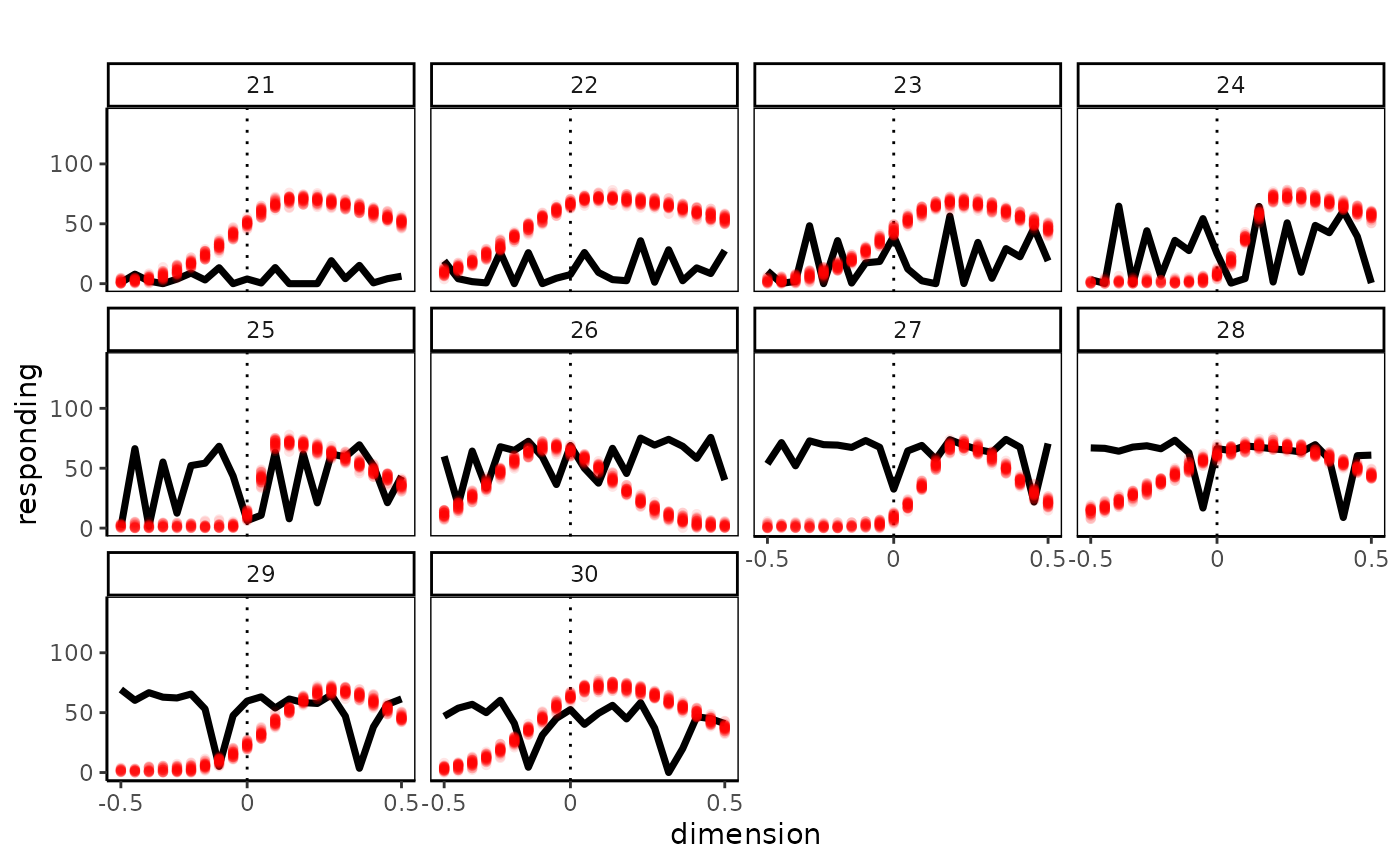
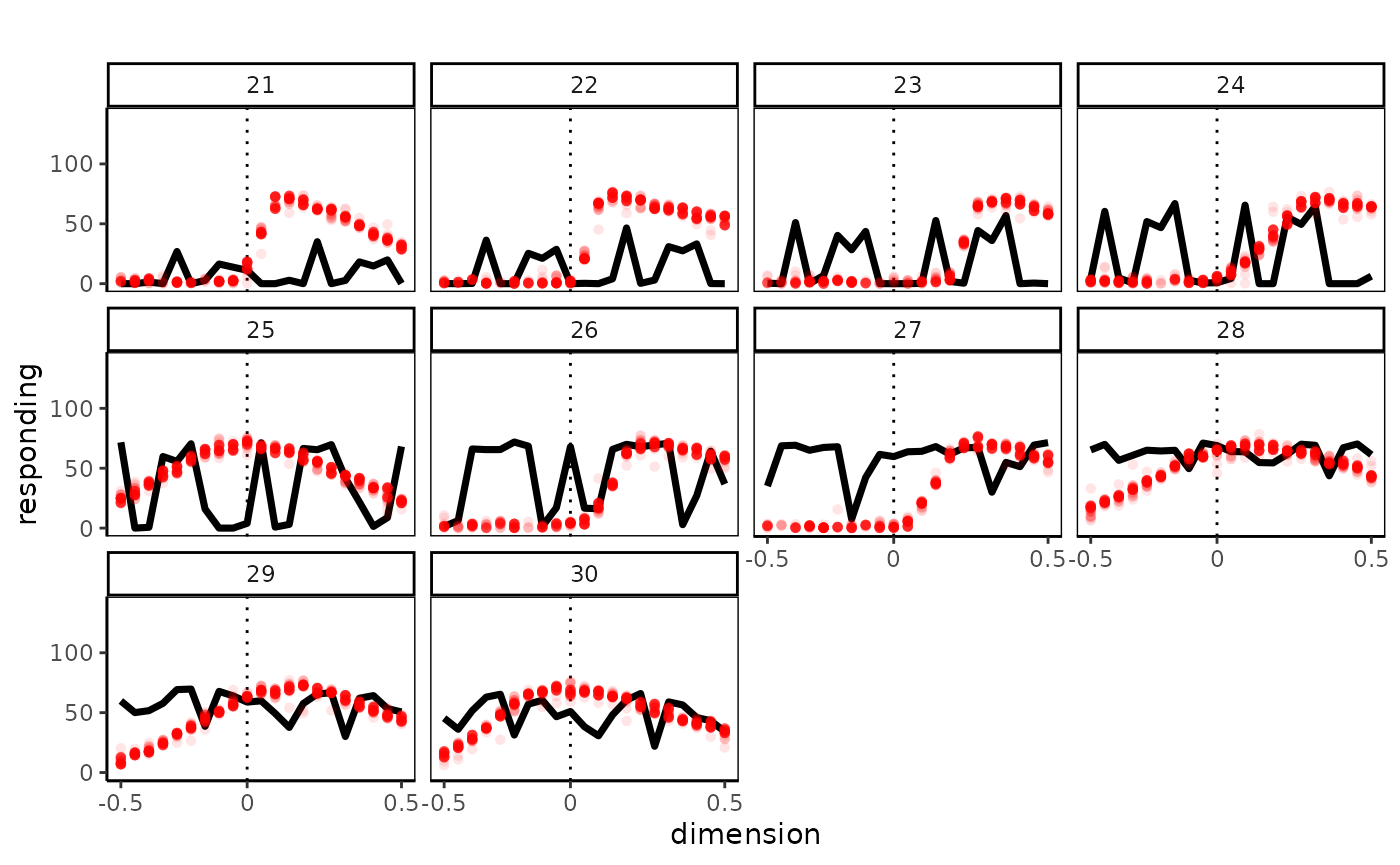
Deploying to gh-pages from @ fontikar/augGauss@7ff78bc59039eabdb589e5656387280915393bc2 🚀

Changed region(s): [[0.0614, 0.4994, 0.9829, 0.6243], [0.0614, 0.2185, 0.9829, 0.3434], [0.0614, 0.7803, 0.5221, 0.9052]]

diff --git a/articles/augGauss.html b/articles/augGauss.html
@@ -111,14 +111,14 @@ of <code>augGauss</code>
 <span></span>
 <span><span class="va">sim_data</span>  <span class="op">|&gt;</span> <span class="fu"><a href="https://rdrr.io/r/base/print.html" class="external-link">print</a></span><span class="op">(</span>n <span class="op">=</span> <span class="fl">6</span><span class="op">)</span></span>
 <span><span class="co">#&gt; <span style="color: #949494;"># A tibble: 630 × 4</span></span></span>
-<span><span class="co">#&gt;    subj group      x     y</span></span>
-<span><span class="co">#&gt;   <span style="color: #949494; font-style: italic;">&lt;dbl&gt;</span> <span style="color: #949494; font-style: italic;">&lt;chr&gt;</span>  <span style="color: #949494; font-style: italic;">&lt;dbl&gt;</span> <span style="color: #949494; font-style: italic;">&lt;dbl&gt;</span></span></span>
-<span><span class="co">#&gt; <span style="color: #BCBCBC;">1</span>     1 group1 -<span style="color: #BB0000;">0.5</span>   4.90</span></span>
-<span><span class="co">#&gt; <span style="color: #BCBCBC;">2</span>     1 group1 -<span style="color: #BB0000;">0.45</span>  8.17</span></span>
-<span><span class="co">#&gt; <span style="color: #BCBCBC;">3</span>     1 group1 -<span style="color: #BB0000;">0.4</span>  11.7 </span></span>
-<span><span class="co">#&gt; <span style="color: #BCBCBC;">4</span>     1 group1 -<span style="color: #BB0000;">0.35</span> 18.2 </span></span>
-<span><span class="co">#&gt; <span style="color: #BCBCBC;">5</span>     1 group1 -<span style="color: #BB0000;">0.3</span>  21.6 </span></span>
-<span><span class="co">#&gt; <span style="color: #BCBCBC;">6</span>     1 group1 -<span style="color: #BB0000;">0.25</span> 24.5 </span></span>
+<span><span class="co">#&gt;    subj group      x      y</span></span>
+<span><span class="co">#&gt;   <span style="color: #949494; font-style: italic;">&lt;dbl&gt;</span> <span style="color: #949494; font-style: italic;">&lt;chr&gt;</span>  <span style="color: #949494; font-style: italic;">&lt;dbl&gt;</span>  <span style="color: #949494; font-style: italic;">&lt;dbl&gt;</span></span></span>
+<span><span class="co">#&gt; <span style="color: #BCBCBC;">1</span>     1 group1 -<span style="color: #BB0000;">0.5</span>  0     </span></span>
+<span><span class="co">#&gt; <span style="color: #BCBCBC;">2</span>     1 group1 -<span style="color: #BB0000;">0.45</span> 0.098<span style="text-decoration: underline;">8</span></span></span>
+<span><span class="co">#&gt; <span style="color: #BCBCBC;">3</span>     1 group1 -<span style="color: #BB0000;">0.4</span>  2.71  </span></span>
+<span><span class="co">#&gt; <span style="color: #BCBCBC;">4</span>     1 group1 -<span style="color: #BB0000;">0.35</span> 2.40  </span></span>
+<span><span class="co">#&gt; <span style="color: #BCBCBC;">5</span>     1 group1 -<span style="color: #BB0000;">0.3</span>  1.80  </span></span>
+<span><span class="co">#&gt; <span style="color: #BCBCBC;">6</span>     1 group1 -<span style="color: #BB0000;">0.25</span> 4.59  </span></span>
 <span><span class="co">#&gt; <span style="color: #949494;"># ℹ 624 more rows</span></span></span></code></pre></div>
 <p>You can save the simulated data by setting the <code>save_data</code>
 argument to <code>TRUE</code></p>
@@ -143,35 +143,35 @@ argument to <code>TRUE</code></p>
 <div class="sourceCode" id="cb7"><pre class="downlit sourceCode r">
 <code class="sourceCode R"><span><span class="fu"><a href="../reference/Get_HDIs.html">Get_HDIs</a></span><span class="op">(</span><span class="va">combined</span><span class="op">)</span> </span>
 <span><span class="co">#&gt; $group1</span></span>
-<span><span class="co">#&gt;           param hdi_lim     hdi_low   hdi_high rope_low rope_high prop_rope</span></span>
-<span><span class="co">#&gt; 1       M_group    0.95 -0.02939863  0.2120115    -0.05      0.05      0.40</span></span>
-<span><span class="co">#&gt; 2  SDPlus_group    0.95  0.14844642  0.4299640     0.10      0.20      0.21</span></span>
-<span><span class="co">#&gt; 3 SDMinus_group    0.95  0.15448574  0.2889490     0.10      0.20      0.23</span></span>
-<span><span class="co">#&gt; 4  height_group    0.95 50.99432431 81.1201885    70.00     80.00      0.31</span></span>
+<span><span class="co">#&gt;           param hdi_lim     hdi_low    hdi_high rope_low rope_high prop_rope</span></span>
+<span><span class="co">#&gt; 1       M_group    0.95 -0.04237548  0.08628929    -0.05      0.05      0.66</span></span>
+<span><span class="co">#&gt; 2  SDPlus_group    0.95  0.27542966  0.44980423     0.10      0.20      0.00</span></span>
+<span><span class="co">#&gt; 3 SDMinus_group    0.95  0.11072881  0.24954903     0.10      0.20      0.75</span></span>
+<span><span class="co">#&gt; 4  height_group    0.95 59.88644756 79.57696119    70.00     80.00      0.51</span></span>
 <span><span class="co">#&gt;   p_dir</span></span>
-<span><span class="co">#&gt; 1  0.89</span></span>
+<span><span class="co">#&gt; 1  0.82</span></span>
 <span><span class="co">#&gt; 2  1.00</span></span>
 <span><span class="co">#&gt; 3  1.00</span></span>
 <span><span class="co">#&gt; 4  1.00</span></span>
 <span><span class="co">#&gt; </span></span>
 <span><span class="co">#&gt; $group2</span></span>
-<span><span class="co">#&gt;           param hdi_lim     hdi_low   hdi_high rope_low rope_high prop_rope</span></span>
-<span><span class="co">#&gt; 1       M_group    0.95 -0.03742665  0.3289277    -0.05      0.05      0.43</span></span>
-<span><span class="co">#&gt; 2  SDPlus_group    0.95  0.09966680  0.4860483     0.10      0.20      0.38</span></span>
-<span><span class="co">#&gt; 3 SDMinus_group    0.95  0.11189182  0.5306188     0.10      0.20      0.41</span></span>
-<span><span class="co">#&gt; 4  height_group    0.95 27.34201686 75.8644720    70.00     80.00      0.50</span></span>
+<span><span class="co">#&gt;           param hdi_lim     hdi_low    hdi_high rope_low rope_high prop_rope</span></span>
+<span><span class="co">#&gt; 1       M_group    0.95 -0.03048571  0.09657593    -0.05      0.05      0.65</span></span>
+<span><span class="co">#&gt; 2  SDPlus_group    0.95  0.24562223  0.38088443     0.10      0.20      0.00</span></span>
+<span><span class="co">#&gt; 3 SDMinus_group    0.95  0.14006861  0.26475670     0.10      0.20      0.38</span></span>
+<span><span class="co">#&gt; 4  height_group    0.95 66.59133504 74.77841845    70.00     80.00      0.77</span></span>
 <span><span class="co">#&gt;   p_dir</span></span>
-<span><span class="co">#&gt; 1  0.77</span></span>
-<span><span class="co">#&gt; 2  1.00</span></span>
-<span><span class="co">#&gt; 3  1.00</span></span>
-<span><span class="co">#&gt; 4  1.00</span></span>
+<span><span class="co">#&gt; 1   0.8</span></span>
+<span><span class="co">#&gt; 2   1.0</span></span>
+<span><span class="co">#&gt; 3   1.0</span></span>
+<span><span class="co">#&gt; 4   1.0</span></span>
 <span><span class="co">#&gt; </span></span>
 <span><span class="co">#&gt; $group3</span></span>
-<span><span class="co">#&gt;           param hdi_lim     hdi_low   hdi_high rope_low rope_high prop_rope</span></span>
-<span><span class="co">#&gt; 1       M_group    0.95  0.03386109  0.1376460    -0.05      0.05      0.08</span></span>
-<span><span class="co">#&gt; 2  SDPlus_group    0.95  0.32648971  0.4335942     0.10      0.20      0.00</span></span>
-<span><span class="co">#&gt; 3 SDMinus_group    0.95  0.12992057  0.2725881     0.10      0.20      0.33</span></span>
-<span><span class="co">#&gt; 4  height_group    0.95 69.21586280 71.5534267    70.00     80.00      0.81</span></span>
+<span><span class="co">#&gt;           param hdi_lim      hdi_low   hdi_high rope_low rope_high prop_rope</span></span>
+<span><span class="co">#&gt; 1       M_group    0.95  0.003335315  0.1498465    -0.05      0.05      0.30</span></span>
+<span><span class="co">#&gt; 2  SDPlus_group    0.95  0.388230051  0.5315191     0.10      0.20      0.00</span></span>
+<span><span class="co">#&gt; 3 SDMinus_group    0.95  0.154713502  0.2259645     0.10      0.20      0.86</span></span>
+<span><span class="co">#&gt; 4  height_group    0.95 68.033942033 71.0217226    70.00     80.00      0.37</span></span>
 <span><span class="co">#&gt;   p_dir</span></span>
 <span><span class="co">#&gt; 1     1</span></span>
 <span><span class="co">#&gt; 2     1</span></span>
@@ -180,119 +180,119 @@ argument to <code>TRUE</code></p>
 <span></span>
 <span><span class="fu"><a href="../reference/Get_HDIs_diff.html">Get_HDIs_diff</a></span><span class="op">(</span><span class="va">combined</span>, comparison <span class="op">=</span> <span class="fu"><a href="https://rdrr.io/r/base/c.html" class="external-link">c</a></span><span class="op">(</span><span class="st">"group1"</span>, <span class="st">"group3"</span><span class="op">)</span><span class="op">)</span> </span>
 <span><span class="co">#&gt; $group_sample_diffs</span></span>
-<span><span class="co">#&gt;           M_group  SDPlus_group SDMinus_group height_group</span></span>
-<span><span class="co">#&gt; 1    0.0176038756 -0.0955361878  0.0629807589   -17.233099</span></span>
-<span><span class="co">#&gt; 2    0.0277057844 -0.0669668364  0.0138890642   -20.764999</span></span>
-<span><span class="co">#&gt; 3    0.1372423983 -0.1671254662  0.0639247075   -18.218690</span></span>
-<span><span class="co">#&gt; 4    0.1423995646 -0.1569428863  0.0063963088   -19.558177</span></span>
-<span><span class="co">#&gt; 5    0.1746762647 -0.2167104828  0.0621194099   -15.228837</span></span>
-<span><span class="co">#&gt; 6   -0.0395637078 -0.0660373464  0.0110116058   -18.871506</span></span>
-<span><span class="co">#&gt; 7    0.0569950084 -0.2327678692  0.0181758956   -13.495008</span></span>
-<span><span class="co">#&gt; 8   -0.0113398214 -0.1863302532  0.0694737404   -17.107024</span></span>
-<span><span class="co">#&gt; 9    0.1042834667 -0.1224886563  0.0116548434   -18.755262</span></span>
-<span><span class="co">#&gt; 10   0.1082494436 -0.2082500978  0.0287459342   -18.364038</span></span>
-<span><span class="co">#&gt; 11   0.1216775412 -0.1360466514  0.1001550499   -16.202608</span></span>
-<span><span class="co">#&gt; 12   0.1409870313 -0.2111392874  0.0114773580   -18.987568</span></span>
-<span><span class="co">#&gt; 13   0.0853072641 -0.1438393140  0.0358604235   -18.678920</span></span>
-<span><span class="co">#&gt; 14   0.0818145837 -0.1224085439  0.0109901960   -17.533361</span></span>
-<span><span class="co">#&gt; 15   0.1503651461 -0.1764488559  0.0374925032   -19.163337</span></span>
-<span><span class="co">#&gt; 16  -0.0237342099 -0.1567590117 -0.0047702550   -16.570995</span></span>
-<span><span class="co">#&gt; 17  -0.0124285058 -0.1886732488  0.0318648575   -21.070726</span></span>
-<span><span class="co">#&gt; 18   0.0774442468 -0.1534473233 -0.0286293061   -16.625810</span></span>
-<span><span class="co">#&gt; 19   0.1156935501 -0.1825397400  0.0115457081   -17.258031</span></span>
-<span><span class="co">#&gt; 20   0.0763797002 -0.0337377202  0.0608996863   -17.633498</span></span>
-<span><span class="co">#&gt; 21   0.0251363972 -0.2503464890 -0.0274072310   -12.629426</span></span>
-<span><span class="co">#&gt; 22   0.0644944368 -0.1482481565  0.1354144650   -17.744411</span></span>
-<span><span class="co">#&gt; 23   0.0212271634 -0.2067241253 -0.0009409767   -14.688784</span></span>
-<span><span class="co">#&gt; 24   0.1196774503 -0.1942041544  0.1317954619   -16.877866</span></span>
-<span><span class="co">#&gt; 25   0.0456831756 -0.1007469568  0.0226072226   -18.521699</span></span>
-<span><span class="co">#&gt; 26   0.0882861770 -0.2058463045  0.0176865419   -15.511643</span></span>
-<span><span class="co">#&gt; 27   0.0943673520 -0.1713664324  0.0675360125   -17.252265</span></span>
-<span><span class="co">#&gt; 28   0.0424226676 -0.1408517847  0.0110798865   -14.293621</span></span>
-<span><span class="co">#&gt; 29   0.0666358153 -0.1483916764  0.0498516131   -18.949886</span></span>
-<span><span class="co">#&gt; 30   0.0728233121 -0.1112809666  0.0876561989   -18.175405</span></span>
-<span><span class="co">#&gt; 31   0.0003230613 -0.2696405411  0.0066262849   -17.580206</span></span>
-<span><span class="co">#&gt; 32   0.0648246163 -0.2292359466  0.0460867664   -17.945350</span></span>
-<span><span class="co">#&gt; 33   0.0237313805 -0.1160634439 -0.0031629855   -15.864281</span></span>
-<span><span class="co">#&gt; 34   0.0632226685 -0.1847736797  0.1041270807   -16.690886</span></span>
-<span><span class="co">#&gt; 35   0.1028098425 -0.1212272262  0.0481113903   -15.281056</span></span>
-<span><span class="co">#&gt; 36   0.1372369966 -0.1399402539  0.0831877552   -16.529718</span></span>
-<span><span class="co">#&gt; 37   0.1373059475 -0.1779574224  0.0526439338   -18.648490</span></span>
-<span><span class="co">#&gt; 38   0.0236253884 -0.1792494066  0.0438581916   -18.162933</span></span>
-<span><span class="co">#&gt; 39   0.0866144682 -0.2082934243  0.0744457184   -19.305545</span></span>
-<span><span class="co">#&gt; 40   0.0473755875 -0.0892140292 -0.0298521035   -17.206020</span></span>
-<span><span class="co">#&gt; 41   0.0417606800 -0.2209431513  0.0004840834   -16.621387</span></span>
-<span><span class="co">#&gt; 42   0.0753256503 -0.1690226831  0.0675728192   -16.325889</span></span>
-<span><span class="co">#&gt; 43   0.0528178374 -0.2251344790  0.0465082184   -16.459184</span></span>
-<span><span class="co">#&gt; 44   0.1011586622 -0.1899441935 -0.0049842250   -16.258146</span></span>
-<span><span class="co">#&gt; 45   0.1117544314 -0.2425301908  0.0592790904   -15.893463</span></span>
-<span><span class="co">#&gt; 46   0.0507660722 -0.0525255846  0.0770139132   -19.035724</span></span>
-<span><span class="co">#&gt; 47   0.0828485816 -0.1011246722  0.0715948881   -18.861523</span></span>
-<span><span class="co">#&gt; 48   0.1138301560 -0.2292207334 -0.0233819731   -19.801333</span></span>
-<span><span class="co">#&gt; 49   0.0853072505 -0.1717095732  0.1213033837   -15.536750</span></span>
-<span><span class="co">#&gt; 50   0.0203781962 -0.1989218293  0.0325435352   -16.714859</span></span>
-<span><span class="co">#&gt; 51  -0.0334639099 -0.0100820030  0.0212337674     9.766769</span></span>
-<span><span class="co">#&gt; 52  -0.0505729424  0.0032398448 -0.0337997991     9.679912</span></span>
-<span><span class="co">#&gt; 53  -0.0454146287  0.0126823594  0.0496227027     9.511465</span></span>
-<span><span class="co">#&gt; 54   0.0031617679  0.0619010811 -0.0287285339     8.972190</span></span>
-<span><span class="co">#&gt; 55  -0.1112323057  0.0385460461 -0.0402227078    10.053500</span></span>
-<span><span class="co">#&gt; 56  -0.0099341959  0.0178400585 -0.0161638732     8.248121</span></span>
-<span><span class="co">#&gt; 57  -0.0584496780  0.0768496023 -0.0131171564     8.580505</span></span>
-<span><span class="co">#&gt; 58  -0.0891798097 -0.0152589967 -0.0006125056     8.203953</span></span>
-<span><span class="co">#&gt; 59  -0.1486767506 -0.0007679793 -0.0204013216     8.942722</span></span>
-<span><span class="co">#&gt; 60  -0.0879974207  0.0553665969  0.0629996081     9.211398</span></span>
-<span><span class="co">#&gt; 61  -0.0725290894 -0.0533381141 -0.0409874695     8.418947</span></span>
-<span><span class="co">#&gt; 62  -0.1173774898  0.0629456665 -0.0886509898     9.937011</span></span>
-<span><span class="co">#&gt; 63  -0.0784630170 -0.0626578543  0.0119500797     9.546727</span></span>
-<span><span class="co">#&gt; 64  -0.0573542525  0.0017150593  0.0064402574     9.299257</span></span>
-<span><span class="co">#&gt; 65  -0.0832329872  0.0060185121  0.0367934098     8.774349</span></span>
-<span><span class="co">#&gt; 66  -0.0151753114  0.0518983891 -0.0243947030     7.500353</span></span>
-<span><span class="co">#&gt; 67  -0.0353377057  0.0179906210  0.0241938585     9.671290</span></span>
-<span><span class="co">#&gt; 68  -0.0513806250  0.0001231279 -0.0341599614     9.446216</span></span>
-<span><span class="co">#&gt; 69  -0.0288304536 -0.0250111892 -0.0229586908    10.913648</span></span>
-<span><span class="co">#&gt; 70  -0.0166054155  0.0035299153 -0.0106590480     7.932176</span></span>
-<span><span class="co">#&gt; 71  -0.0831277624  0.0008491300  0.0402419191     9.343476</span></span>
-<span><span class="co">#&gt; 72  -0.0289048898 -0.0428297163 -0.0176153630    10.629637</span></span>
-<span><span class="co">#&gt; 73  -0.0715576712  0.0119375305  0.0158116841    10.068574</span></span>
-<span><span class="co">#&gt; 74  -0.1471749344 -0.0173448809 -0.1250463742     9.037175</span></span>
-<span><span class="co">#&gt; 75  -0.1157324771  0.0258098481 -0.0376352054     9.013086</span></span>
-<span><span class="co">#&gt; 76  -0.0463172346 -0.0812396691  0.0376275985     7.981957</span></span>
-<span><span class="co">#&gt; 77  -0.0848780362  0.0080028134  0.0106336284     7.837132</span></span>
-<span><span class="co">#&gt; 78  -0.1102683981 -0.0291684030  0.0121338324     9.483019</span></span>
-<span><span class="co">#&gt; 79  -0.1219698361 -0.0218392770  0.0175650659     7.182861</span></span>
-<span><span class="co">#&gt; 80  -0.0293322194  0.0166171260 -0.0338131941    11.176518</span></span>
-<span><span class="co">#&gt; 81  -0.1187032126  0.0773591366  0.1043626563     9.149669</span></span>
-<span><span class="co">#&gt; 82  -0.1004462481  0.0132891536 -0.0615272061     8.865670</span></span>
-<span><span class="co">#&gt; 83  -0.0952065929  0.0020548713  0.0442491120     8.856546</span></span>
-<span><span class="co">#&gt; 84  -0.0810117121 -0.0514070852 -0.0332100101     9.421228</span></span>
-<span><span class="co">#&gt; 85   0.0060775394  0.0688966939  0.0799120080    10.217118</span></span>
-<span><span class="co">#&gt; 86  -0.0782138091 -0.0467743693 -0.0150847234     8.866274</span></span>
-<span><span class="co">#&gt; 87  -0.0953511097  0.0571962012 -0.0406366794     8.786629</span></span>
-<span><span class="co">#&gt; 88  -0.0829471356  0.0578014436 -0.0686359561     6.918841</span></span>
-<span><span class="co">#&gt; 89  -0.0855916721 -0.0270248600  0.0110265760     8.923734</span></span>
-<span><span class="co">#&gt; 90  -0.0142432349  0.0444682626  0.0434736850    10.187001</span></span>
-<span><span class="co">#&gt; 91  -0.0527778495  0.0337997320 -0.0193379124     9.009433</span></span>
-<span><span class="co">#&gt; 92  -0.0026984689 -0.0228205128 -0.0442782312     9.180549</span></span>
-<span><span class="co">#&gt; 93  -0.1265867851  0.0692690786  0.0574405141     8.659189</span></span>
-<span><span class="co">#&gt; 94  -0.0689515383  0.0472467060 -0.0899964024     8.660256</span></span>
-<span><span class="co">#&gt; 95  -0.0442192294  0.0483103983  0.0524758552     8.524361</span></span>
-<span><span class="co">#&gt; 96  -0.0542959554 -0.0866397242  0.0633435029     9.774529</span></span>
-<span><span class="co">#&gt; 97  -0.0565108885  0.0240448020 -0.0318802483    10.083765</span></span>
-<span><span class="co">#&gt; 98  -0.0789073863 -0.0542285759 -0.0417468705     8.237185</span></span>
-<span><span class="co">#&gt; 99  -0.0351267676  0.0264401722  0.0279778421     9.537319</span></span>
-<span><span class="co">#&gt; 100 -0.1082981560  0.0232787066 -0.0458878117     8.129780</span></span>
+<span><span class="co">#&gt;           M_group SDPlus_group SDMinus_group height_group</span></span>
+<span><span class="co">#&gt; 1   -0.0619246357 -0.027982150  0.0858828005    7.5666105</span></span>
+<span><span class="co">#&gt; 2    0.0366861302 -0.039055554  0.0239728150   11.0648106</span></span>
+<span><span class="co">#&gt; 3   -0.1251211531 -0.124416262  0.0406495819    7.3012527</span></span>
+<span><span class="co">#&gt; 4   -0.0383401327 -0.137268653 -0.0189088838   10.2881237</span></span>
+<span><span class="co">#&gt; 5   -0.1340334511 -0.031180631 -0.0527226553    5.6244679</span></span>
+<span><span class="co">#&gt; 6   -0.0226827747 -0.040050292  0.0714837916    6.0317069</span></span>
+<span><span class="co">#&gt; 7   -0.0528935764 -0.061506458  0.0515968579    7.6496982</span></span>
+<span><span class="co">#&gt; 8   -0.0441763734 -0.045889996 -0.0601876141    6.9162789</span></span>
+<span><span class="co">#&gt; 9   -0.1558856067 -0.159307953 -0.0045021055    6.4693393</span></span>
+<span><span class="co">#&gt; 10  -0.0240459679 -0.136214118  0.0140027101    9.8858813</span></span>
+<span><span class="co">#&gt; 11  -0.0266067612 -0.021402330  0.0796737200    8.3884992</span></span>
+<span><span class="co">#&gt; 12  -0.0115228708 -0.047107611 -0.0002381074    8.7232438</span></span>
+<span><span class="co">#&gt; 13  -0.0330458850 -0.114600268 -0.0319076883    8.1684138</span></span>
+<span><span class="co">#&gt; 14  -0.0843581177 -0.058490658  0.0776848537    8.6851451</span></span>
+<span><span class="co">#&gt; 15  -0.0372115191 -0.061679917 -0.0101730214    8.8952420</span></span>
+<span><span class="co">#&gt; 16  -0.0688830506 -0.007232222 -0.0337280613    7.1935313</span></span>
+<span><span class="co">#&gt; 17  -0.0005397842 -0.026922934 -0.0109960465    8.0937137</span></span>
+<span><span class="co">#&gt; 18  -0.1197592298 -0.143957801  0.0491184486    8.6758594</span></span>
+<span><span class="co">#&gt; 19  -0.0530697848  0.018090500 -0.0088079722    8.0213118</span></span>
+<span><span class="co">#&gt; 20  -0.0460132625 -0.015062529 -0.0135137814    6.5829171</span></span>
+<span><span class="co">#&gt; 21   0.0079449361 -0.059032872  0.0211865319   10.4042546</span></span>
+<span><span class="co">#&gt; 22  -0.0893517566 -0.042023070 -0.0133093434    7.8280813</span></span>
+<span><span class="co">#&gt; 23  -0.1024575500 -0.013389501 -0.0301044535    7.3752548</span></span>
+<span><span class="co">#&gt; 24  -0.0762397010 -0.021300345  0.0479272719    8.7073907</span></span>
+<span><span class="co">#&gt; 25   0.0782069909 -0.038351443  0.0149943951    7.8918228</span></span>
+<span><span class="co">#&gt; 26  -0.0465418900 -0.112983156  0.0551151841    7.9690407</span></span>
+<span><span class="co">#&gt; 27   0.0434000432 -0.039970568 -0.0085131462    9.0648719</span></span>
+<span><span class="co">#&gt; 28   0.0246981086 -0.027055296  0.0269044165    8.9944940</span></span>
+<span><span class="co">#&gt; 29  -0.0825700680 -0.059498804  0.0071734383    7.1787436</span></span>
+<span><span class="co">#&gt; 30  -0.1325979351  0.010622043 -0.0036468524    8.9163112</span></span>
+<span><span class="co">#&gt; 31   0.0233040456 -0.033995475  0.0345149722    9.4729809</span></span>
+<span><span class="co">#&gt; 32  -0.0435506880 -0.059764288 -0.0158923172    7.2209628</span></span>
+<span><span class="co">#&gt; 33   0.0015752921 -0.135372479  0.0325164590    6.1428369</span></span>
+<span><span class="co">#&gt; 34  -0.1162354449 -0.131097676  0.0083355857    7.5159845</span></span>
+<span><span class="co">#&gt; 35   0.0220585097 -0.043882020  0.0203291167    8.1419140</span></span>
+<span><span class="co">#&gt; 36   0.0465143016 -0.044764673  0.0217332475   11.0949506</span></span>
+<span><span class="co">#&gt; 37   0.0201446384 -0.053851009 -0.0110731361    7.2755893</span></span>
+<span><span class="co">#&gt; 38   0.0305458116 -0.033227028  0.0819473488   10.1594849</span></span>
+<span><span class="co">#&gt; 39   0.0684901897 -0.066916266 -0.0037903781    8.0287643</span></span>
+<span><span class="co">#&gt; 40  -0.0267391321 -0.061811492  0.0151967602    6.4081874</span></span>
+<span><span class="co">#&gt; 41  -0.1116496639 -0.125587020 -0.0702515808    7.4387856</span></span>
+<span><span class="co">#&gt; 42  -0.0166842671 -0.027487799 -0.0219962574    9.1357782</span></span>
+<span><span class="co">#&gt; 43  -0.0385184451 -0.079654375  0.0038486092    7.6170516</span></span>
+<span><span class="co">#&gt; 44   0.0057089999  0.005339370  0.0198874736    7.2382930</span></span>
+<span><span class="co">#&gt; 45   0.0052149465 -0.001171453 -0.0022230229    7.3910808</span></span>
+<span><span class="co">#&gt; 46  -0.0576404974 -0.086536911 -0.0108806555    6.0902042</span></span>
+<span><span class="co">#&gt; 47  -0.0631305755 -0.128273286  0.0081700713    9.8708880</span></span>
+<span><span class="co">#&gt; 48   0.0130883262 -0.022927729 -0.0071802604    8.4026237</span></span>
+<span><span class="co">#&gt; 49  -0.0501572228 -0.046354259  0.0020027379    7.9587605</span></span>
+<span><span class="co">#&gt; 50   0.0438118145 -0.016557597  0.0425033631    9.0922159</span></span>
+<span><span class="co">#&gt; 51  -0.1747336814 -0.179438033  0.0552918494   -9.2296173</span></span>
+<span><span class="co">#&gt; 52  -0.1099894094 -0.157986838 -0.0385628765   -6.3694191</span></span>
+<span><span class="co">#&gt; 53  -0.0293213459 -0.132034278 -0.0114864594   -5.1103701</span></span>
+<span><span class="co">#&gt; 54  -0.1070661813 -0.127347905 -0.0599072188   -7.3644686</span></span>
+<span><span class="co">#&gt; 55  -0.0415904459 -0.121857442 -0.0370445668   -4.6220488</span></span>
+<span><span class="co">#&gt; 56  -0.0387847880 -0.039247094 -0.0052315622   -4.8190941</span></span>
+<span><span class="co">#&gt; 57  -0.0778694893 -0.153890810  0.0173610505   -4.2864236</span></span>
+<span><span class="co">#&gt; 58  -0.0924030938 -0.094501344 -0.0801572445   -5.2646626</span></span>
+<span><span class="co">#&gt; 59   0.0788049900 -0.162530208 -0.0105548558   -9.2331501</span></span>
+<span><span class="co">#&gt; 60  -0.0837895065 -0.114953730 -0.0574920227   -4.7577500</span></span>
+<span><span class="co">#&gt; 61  -0.0397951244 -0.188556969  0.0798693113   -6.2556178</span></span>
+<span><span class="co">#&gt; 62  -0.0559129941 -0.134770059 -0.0104580071   -0.3670786</span></span>
+<span><span class="co">#&gt; 63  -0.0892648046 -0.113524354 -0.0014820689   -6.1236311</span></span>
+<span><span class="co">#&gt; 64  -0.0875093141 -0.191801808 -0.0130474221  -11.3804293</span></span>
+<span><span class="co">#&gt; 65  -0.1180784770 -0.024943723 -0.0355460397  -14.2175948</span></span>
+<span><span class="co">#&gt; 66  -0.1020167107 -0.225076954 -0.0077621453  -10.8814227</span></span>
+<span><span class="co">#&gt; 67  -0.0843295362 -0.105872185  0.0216549687   -1.9397214</span></span>
+<span><span class="co">#&gt; 68  -0.1378263270 -0.110700980  0.0320722739   -7.6797350</span></span>
+<span><span class="co">#&gt; 69  -0.0721098136 -0.044474099 -0.0207516081   -2.9493867</span></span>
+<span><span class="co">#&gt; 70  -0.1175412033 -0.107074931 -0.0171327768   -5.2429119</span></span>
+<span><span class="co">#&gt; 71  -0.0850266476 -0.184299777  0.0064176197   -7.6936785</span></span>
+<span><span class="co">#&gt; 72  -0.0176628532 -0.096212199 -0.0584526187   -6.6378921</span></span>
+<span><span class="co">#&gt; 73  -0.0603551409 -0.137318714  0.0122153506   -6.0176467</span></span>
+<span><span class="co">#&gt; 74  -0.0760828247 -0.135255060 -0.0364901022   -1.5614010</span></span>
+<span><span class="co">#&gt; 75  -0.0369523134 -0.152171340 -0.0007718248   -3.0793231</span></span>
+<span><span class="co">#&gt; 76  -0.1040654722 -0.116521490 -0.0324949857   -6.0203112</span></span>
+<span><span class="co">#&gt; 77  -0.1408786704 -0.108862166  0.0014754499   -1.2440760</span></span>
+<span><span class="co">#&gt; 78  -0.1199704964 -0.194332296 -0.0319456232   -4.5563809</span></span>
+<span><span class="co">#&gt; 79  -0.1282261329 -0.210756874  0.0434368367   -6.9991329</span></span>
+<span><span class="co">#&gt; 80  -0.0559570585 -0.120031791  0.0077555759   -1.2018699</span></span>
+<span><span class="co">#&gt; 81  -0.0525847700 -0.147063562 -0.0224080264   -7.4068492</span></span>
+<span><span class="co">#&gt; 82  -0.1083621554 -0.110149710 -0.0387254217   -2.8938929</span></span>
+<span><span class="co">#&gt; 83  -0.0669333203 -0.132391391  0.0200236399   -2.2473727</span></span>
+<span><span class="co">#&gt; 84   0.0171112636 -0.132083201 -0.0020623892   -2.9034936</span></span>
+<span><span class="co">#&gt; 85  -0.0544644609 -0.143543040 -0.0562093840   -6.8154508</span></span>
+<span><span class="co">#&gt; 86  -0.1538053055 -0.102410078  0.0306737062   -1.3313820</span></span>
+<span><span class="co">#&gt; 87  -0.1006581843 -0.195174071 -0.0757274193   -9.1855749</span></span>
+<span><span class="co">#&gt; 88  -0.0995457348 -0.117158713 -0.0143954971   -3.3366213</span></span>
+<span><span class="co">#&gt; 89  -0.0732237959 -0.169859247  0.0404317054   -3.4655100</span></span>
+<span><span class="co">#&gt; 90  -0.1043332705 -0.140583481 -0.0158468120   -0.5624151</span></span>
+<span><span class="co">#&gt; 91  -0.0995657135 -0.064999632 -0.0053255890   -9.7316537</span></span>
+<span><span class="co">#&gt; 92   0.0358101169 -0.192125007 -0.0490837282   -1.9309595</span></span>
+<span><span class="co">#&gt; 93  -0.0670889396 -0.158341773 -0.0437489156  -11.6207275</span></span>
+<span><span class="co">#&gt; 94   0.0027645921 -0.165554933 -0.0057321561   -3.9813146</span></span>
+<span><span class="co">#&gt; 95  -0.1294369007 -0.211147455 -0.0721652680   -7.4942931</span></span>
+<span><span class="co">#&gt; 96   0.0204214616 -0.169137479 -0.0610003554   -8.8134514</span></span>
+<span><span class="co">#&gt; 97  -0.0185792208 -0.107430669 -0.0680661182   -3.4540179</span></span>
+<span><span class="co">#&gt; 98  -0.0118752236 -0.218645160 -0.0398662659   -8.1838872</span></span>
+<span><span class="co">#&gt; 99  -0.0199186414 -0.174359955  0.0011682172   -5.4342400</span></span>
+<span><span class="co">#&gt; 100 -0.0298110489 -0.117373267 -0.0542394428   -7.1403463</span></span>
 <span><span class="co">#&gt; </span></span>
 <span><span class="co">#&gt; $group_diff_hdi</span></span>
 <span><span class="co">#&gt;           param hdi_lim     hdi_low    hdi_high p_dir rope_low rope_high</span></span>
-<span><span class="co">#&gt; 1       M_group    0.95  -0.1265868  0.14239956  0.52    -0.05      0.05</span></span>
-<span><span class="co">#&gt; 2  SDPlus_group    0.95  -0.2292359  0.07735914  0.67    -0.05      0.05</span></span>
-<span><span class="co">#&gt; 3 SDMinus_group    0.95  -0.0899964  0.10436266  0.64    -0.05      0.05</span></span>
-<span><span class="co">#&gt; 4  height_group    0.95 -19.8013330 10.62963691  0.50    -2.50      2.50</span></span>
+<span><span class="co">#&gt; 1       M_group    0.95 -0.15588561  0.04651430  0.79    -0.05      0.05</span></span>
+<span><span class="co">#&gt; 2  SDPlus_group    0.95 -0.19517407  0.01809050  0.97    -0.05      0.05</span></span>
+<span><span class="co">#&gt; 3 SDMinus_group    0.95 -0.07216527  0.07986931  0.59    -0.05      0.05</span></span>
+<span><span class="co">#&gt; 4  height_group    0.95 -9.73165372 11.09495060  0.50    -2.50      2.50</span></span>
 <span><span class="co">#&gt;   prop_rope</span></span>
-<span><span class="co">#&gt; 1      0.32</span></span>
-<span><span class="co">#&gt; 2      0.35</span></span>
-<span><span class="co">#&gt; 3      0.70</span></span>
-<span><span class="co">#&gt; 4      0.00</span></span></code></pre></div>
+<span><span class="co">#&gt; 1      0.43</span></span>
+<span><span class="co">#&gt; 2      0.31</span></span>
+<span><span class="co">#&gt; 3      0.78</span></span>
+<span><span class="co">#&gt; 4      0.09</span></span></code></pre></div>
 </div>
 <div class="section level2">
 <h2 id="posterior-predictions">Posterior predictions<a class="anchor" aria-label="anchor" href="#posterior-predictions"></a>

diff --git a/reference/simulate_data.html b/reference/simulate_data.html
@@ -161,7 +161,7 @@
 <span class="r-out co"><span class="r-pr">#&gt;</span>             ".csv"))</span>
 <span class="r-out co"><span class="r-pr">#&gt;</span>     else return(out)</span>
 <span class="r-out co"><span class="r-pr">#&gt;</span> }</span>
-<span class="r-out co"><span class="r-pr">#&gt;</span> &lt;bytecode: 0x56098e30f9e0&gt;</span>
+<span class="r-out co"><span class="r-pr">#&gt;</span> &lt;bytecode: 0x564261ec9ea0&gt;</span>
 <span class="r-out co"><span class="r-pr">#&gt;</span> &lt;environment: namespace:augGauss&gt;</span>
 </code></pre></div>
     </div>
